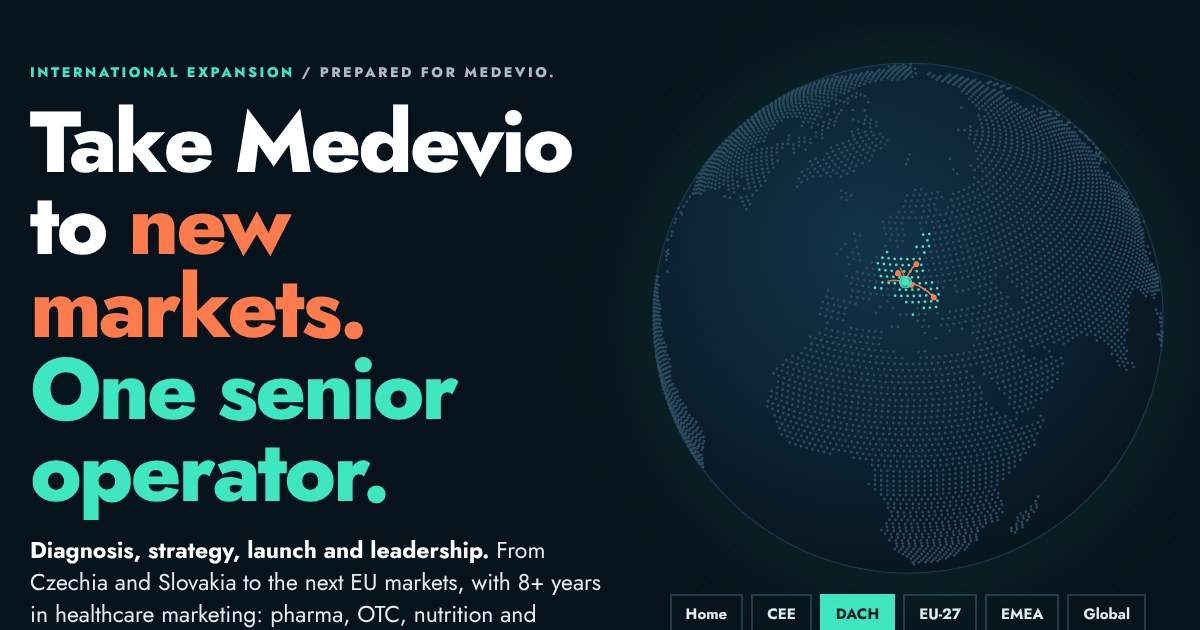
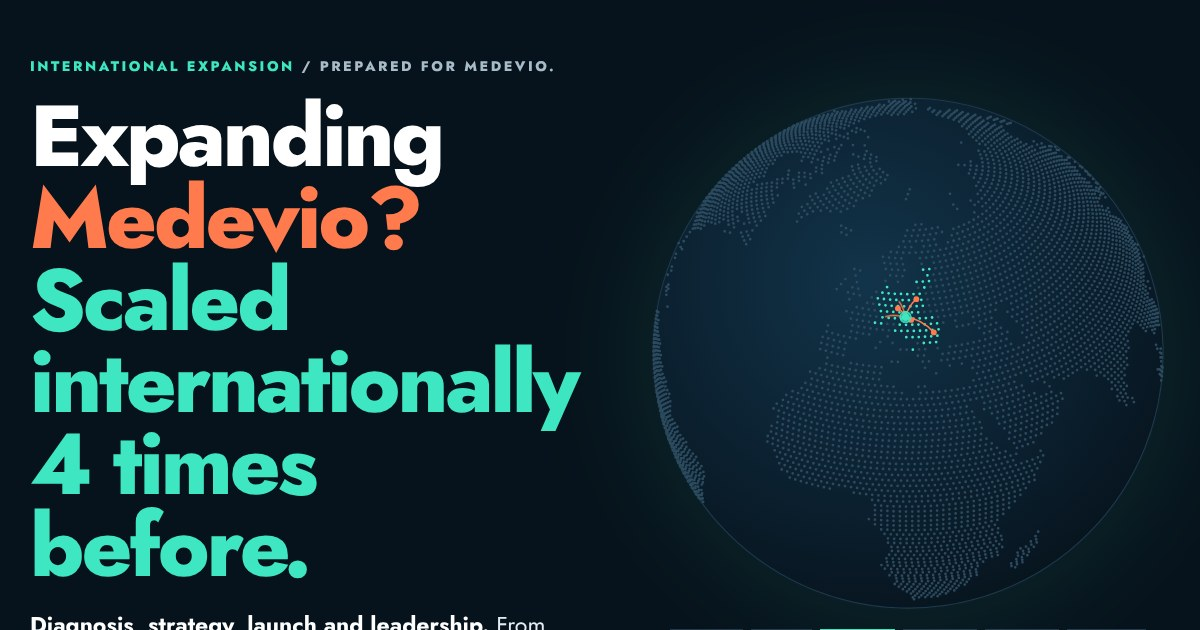
Medevio: new headline and closing CTA
Claude-Session: https://claude.ai/code/session_01T1DQiT6jfABh4Wd2bH9nku

diff --git a/expansion/medevio/index.html b/expansion/medevio/index.html
@@ -5,7 +5,7 @@
 <meta name="description" content="International expansion for Medevio: from Czechia and Slovakia to new markets. Deep Dive, launch and leadership from one senior operator with 8+ years in healthcare marketing.">
 <link rel="canonical" href="https://milanobetko.com/expansion/medevio/">
 <meta property="og:type" content="website"><meta property="og:url" content="https://milanobetko.com/expansion/medevio/"><meta property="og:site_name" content="Milan Obetko">
-<meta property="og:title" content="Milan Obetko - International Expansion for Medevio"><meta property="og:description" content="Take Medevio to new markets. Deep Dive, launch and leadership from one senior operator, 8+ years in healthcare marketing.">
+<meta property="og:title" content="Milan Obetko - International Expansion for Medevio"><meta property="og:description" content="Expanding Medevio? Scaled internationally 4 times before. Deep Dive, launch and leadership from one senior operator, 8+ years in healthcare marketing.">
 <meta property="og:image" content="https://milanobetko.com/expansion/medevio/og-image.jpg"><meta property="og:image:width" content="1200"><meta property="og:image:height" content="630">
 <meta name="twitter:card" content="summary_large_image"><meta name="twitter:image" content="https://milanobetko.com/expansion/medevio/og-image.jpg">
 <link rel="preconnect" href="https://fonts.googleapis.com"><link rel="preconnect" href="https://fonts.gstatic.com" crossorigin>
@@ -192,7 +192,7 @@ footer{padding:26px 0;color:var(--t3);font-size:15px}footer .wrap{display:flex;f
 <section class="hero"><div class="wrap">
 <div class="hero-grid"><div>
 <p class="eyebrow">International Expansion <span>/ Prepared for Medevio.</span></p>
-<h1>Take Medevio to <span class="hl">new markets.</span> <span class="op">One senior operator.</span></h1>
+<h1>Expanding <span class="hl">Medevio?</span> <span class="op">Scaled internationally 4 times before.</span></h1>
 <p class="lead"><b>Diagnosis, strategy, launch and leadership.</b> From Czechia and Slovakia to the next EU markets, with 8+ years in healthcare marketing: pharma, OTC, nutrition and pharmacies.</p>
 <div class="ctas"><a class="btn btn-hot" href="#contact">Let's talk</a><a class="btn btn-line" href="#how">See how it works</a></div>
 </div>
@@ -313,7 +313,7 @@ footer{padding:26px 0;color:var(--t3);font-size:15px}footer .wrap{display:flex;f
 </div></section>
 
 <section class="contact" id="contact"><div class="wrap">
-<h2>Taking Medevio to a new market? Let's talk.</h2>
+<h2>Can I help Medevio expand? Let's talk.</h2>
 <p>A free 30-minute call on the expansion, before anyone commits to anything.</p>
 <div class="ctas"><a class="btn btn-dark" href="mailto:milan.obetko@gmail.com?subject=Expansion%20/%20Medevio">Get in touch</a><a class="btn btn-o" href="https://www.linkedin.com/in/milanobetko" target="_blank" rel="noopener">Connect on LinkedIn</a></div>
 <div class="cdet"><span>milan.obetko@gmail.com</span><span>+421 911 719 998</span><span>Bratislava, Slovakia / Prague, Czech Republic</span></div>
